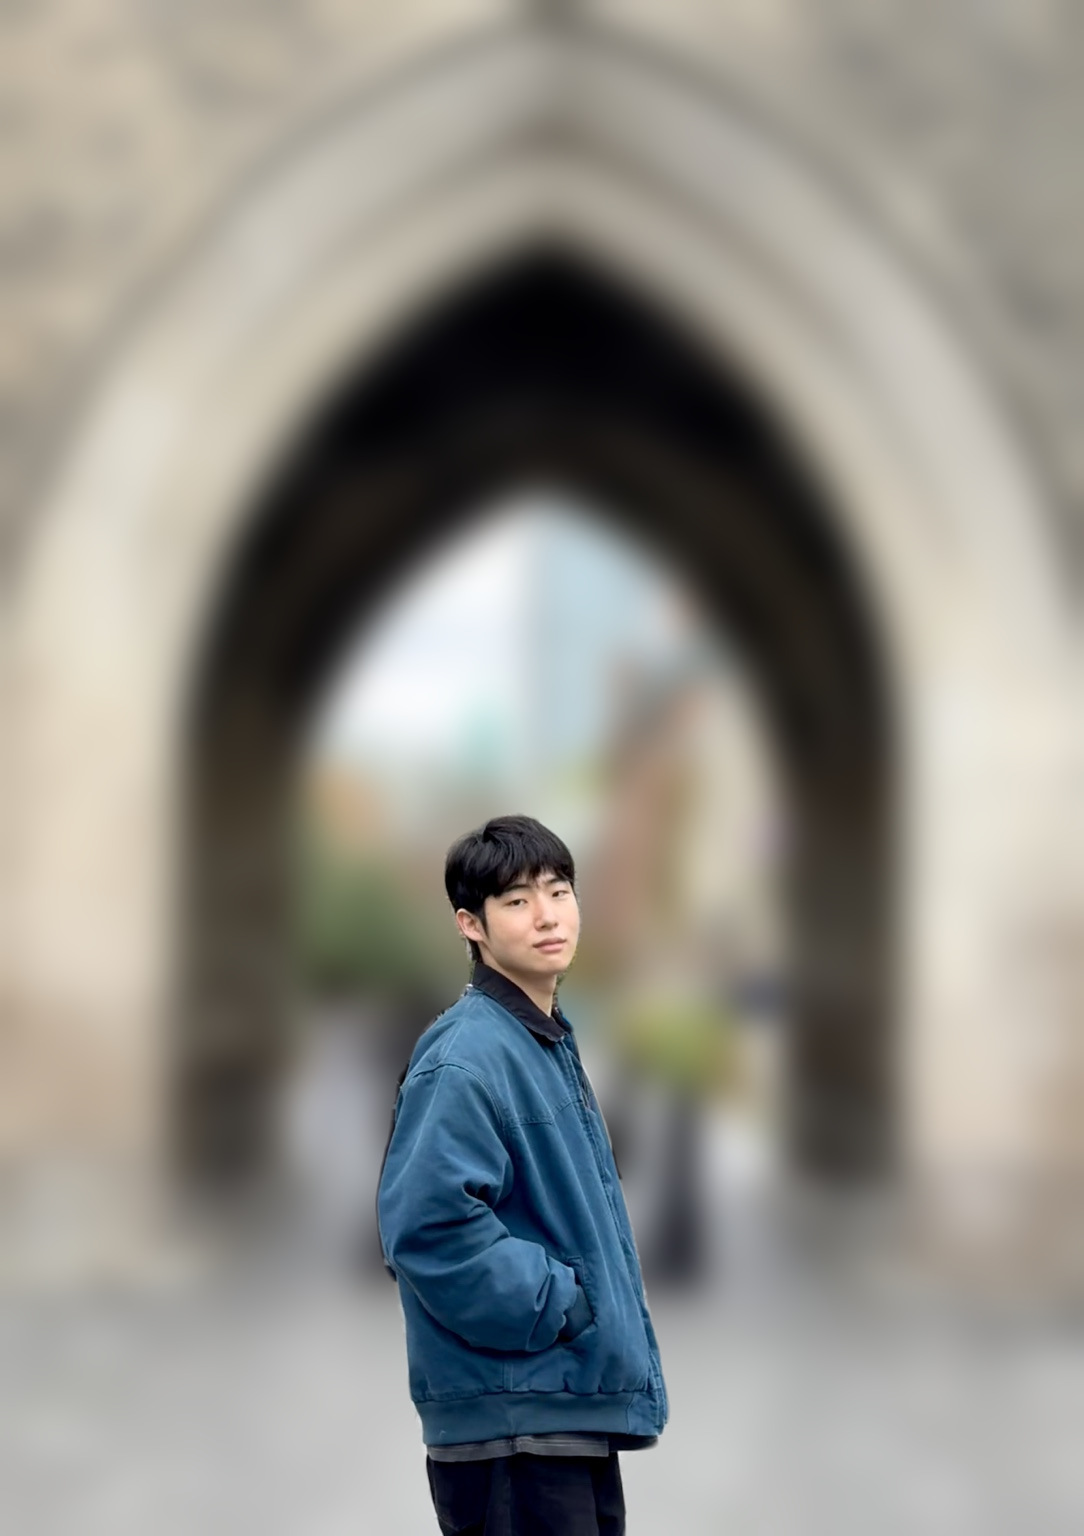
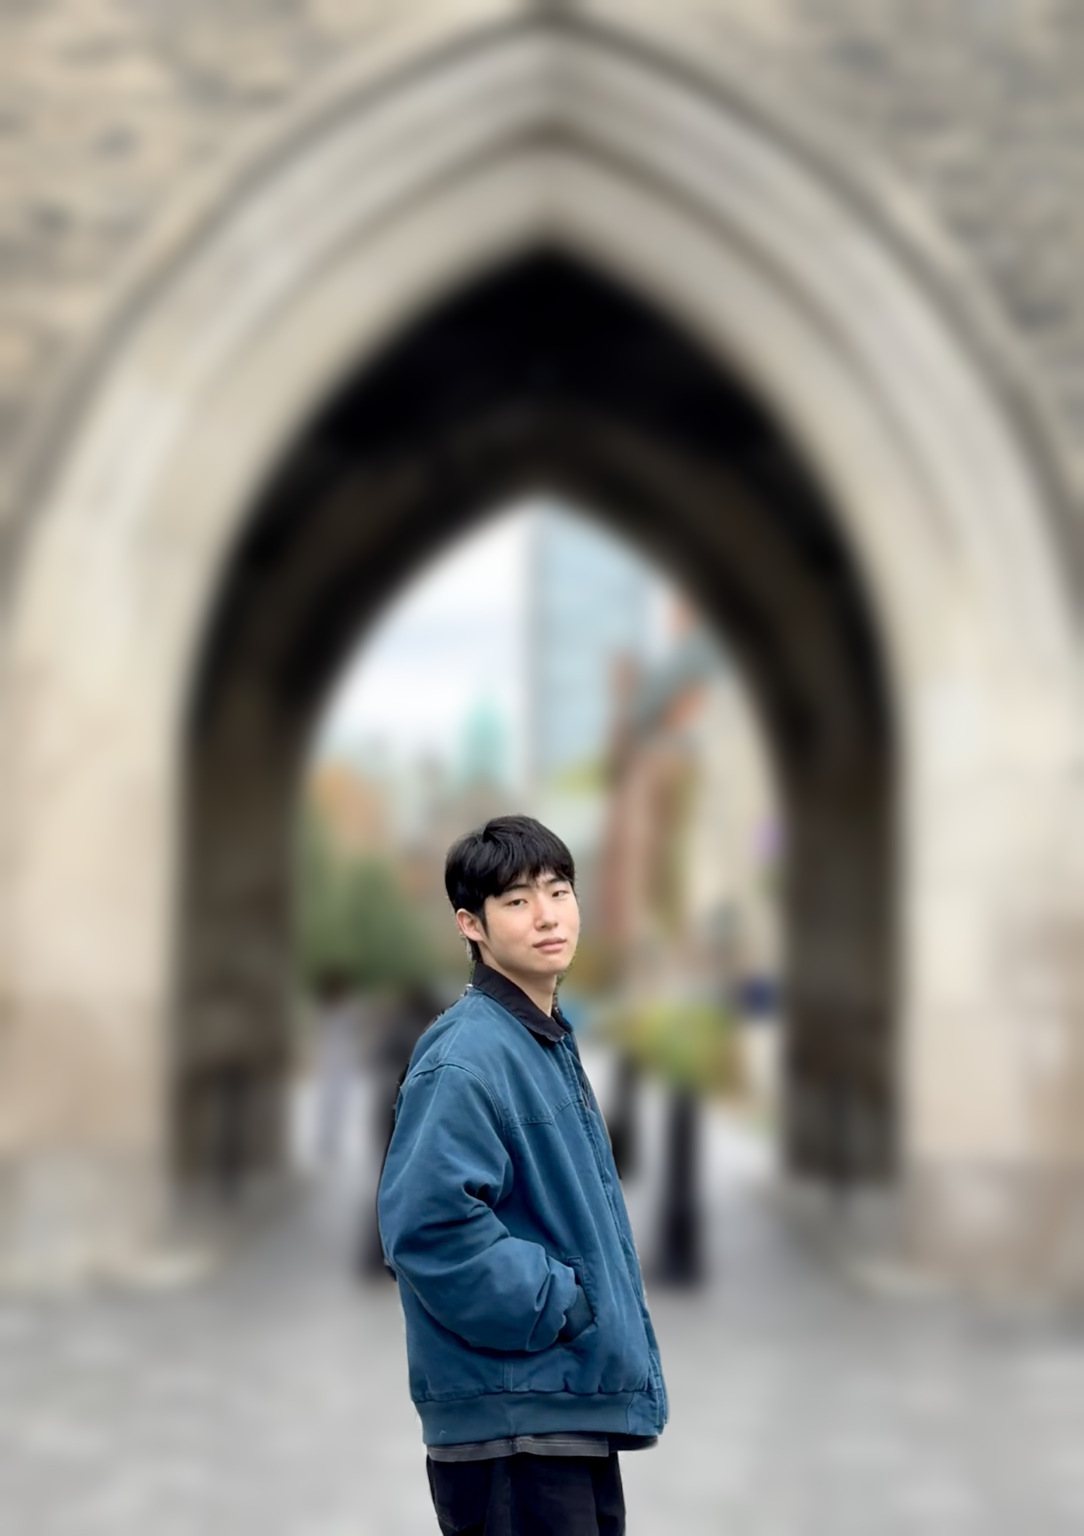
Soften profile photo background blur and nudge the crop down

diff --git a/styles.css b/styles.css
@@ -95,7 +95,7 @@ a:hover {
   width: 170%;
   max-width: none;
   height: auto;
-  transform: translate(-49%, -58%);
+  transform: translate(-49%, -60.7%);
 }
 
 .eyebrow {
